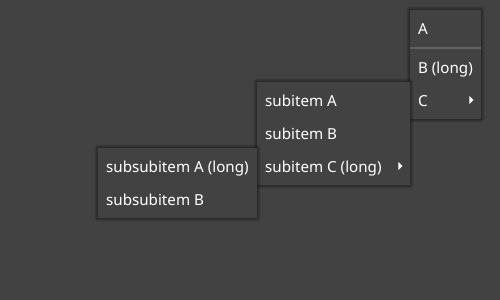
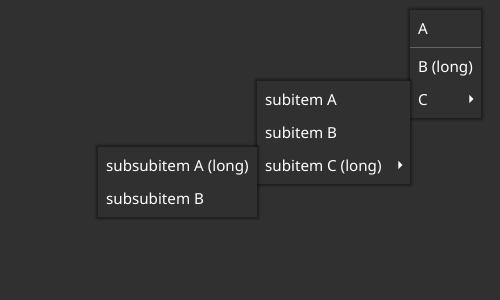
Divider now has fixed minSize and color function
The color is the disabled text color (for now) and the min size is 1x1.

diff --git a/internal/widget/divider.go b/internal/widget/divider.go
@@ -1,8 +1,6 @@
 package widget
 
 import (
-	"image/color"
-
 	"fyne.io/fyne"
 	"fyne.io/fyne/canvas"
 	"fyne.io/fyne/theme"
@@ -13,20 +11,18 @@ var _ fyne.Widget = (*Divider)(nil)
 // Divider is a widget for displaying a divider with themeable color.
 type Divider struct {
 	Base
-	ColorFn func() color.Color
-	MinSz   fyne.Size
 }
 
 // NewDivider creates a new divider.
 func NewDivider() *Divider {
-	return &Divider{ColorFn: theme.ShadowColor, MinSz: fyne.NewSize(1, 1)}
+	return &Divider{}
 }
 
 // CreateRenderer returns a new renderer for the divider.
 //
 // Implements: fyne.Widget
 func (d *Divider) CreateRenderer() fyne.WidgetRenderer {
-	bar := canvas.NewRectangle(d.ColorFn())
+	bar := canvas.NewRectangle(theme.DisabledTextColor())
 	objects := []fyne.CanvasObject{bar}
 	return &dividerRenderer{
 		BaseRenderer: NewBaseRenderer(objects),
@@ -90,10 +86,10 @@ func (r *dividerRenderer) Layout(size fyne.Size) {
 }
 
 func (r *dividerRenderer) MinSize() fyne.Size {
-	return r.d.MinSz
+	return fyne.NewSize(1, 1)
 }
 
 func (r *dividerRenderer) Refresh() {
-	r.bar.FillColor = r.d.ColorFn()
+	r.bar.FillColor = theme.DisabledTextColor()
 	canvas.Refresh(r.d)
 }

diff --git a/widget/menu_item.go b/widget/menu_item.go
@@ -10,14 +10,6 @@ import (
 	"fyne.io/fyne/theme"
 )
 
-// newMenuItemSeparator creates a separator meant to separate MenuItems.
-func newMenuItemSeparator() fyne.CanvasObject {
-	d := widget.NewDivider()
-	d.MinSz = fyne.NewSize(1, 2)
-	d.ColorFn = theme.DisabledTextColor
-	return d
-}
-
 var _ fyne.Widget = (*menuItem)(nil)
 
 // menuItem is a widget for displaying a fyne.menuItem.

diff --git a/widget/menu.go b/widget/menu.go
@@ -26,7 +26,7 @@ func NewMenu(menu *fyne.Menu) *Menu {
 	m := &Menu{Items: items}
 	for i, item := range menu.Items {
 		if item.IsSeparator {
-			items[i] = newMenuItemSeparator()
+			items[i] = widget.NewDivider()
 		} else {
 			items[i] = newMenuItem(item, m, m.activateChild)
 		}
